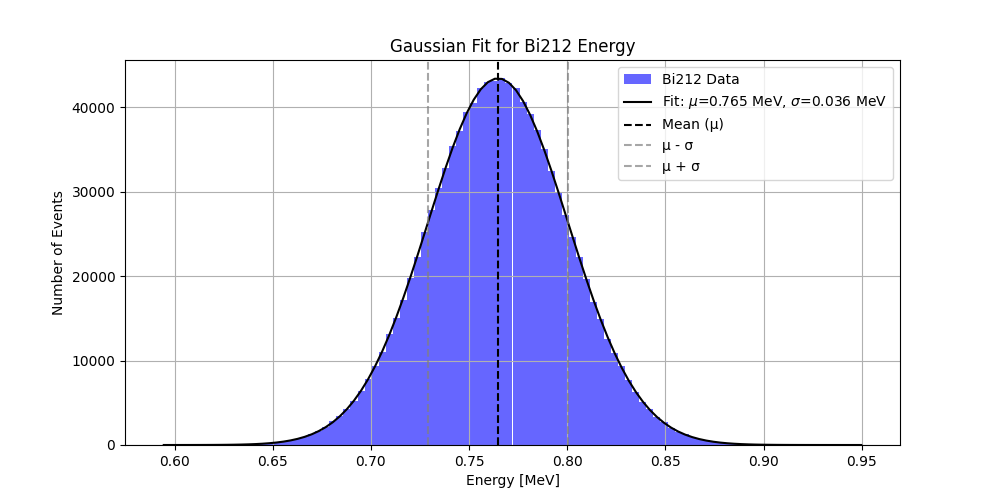
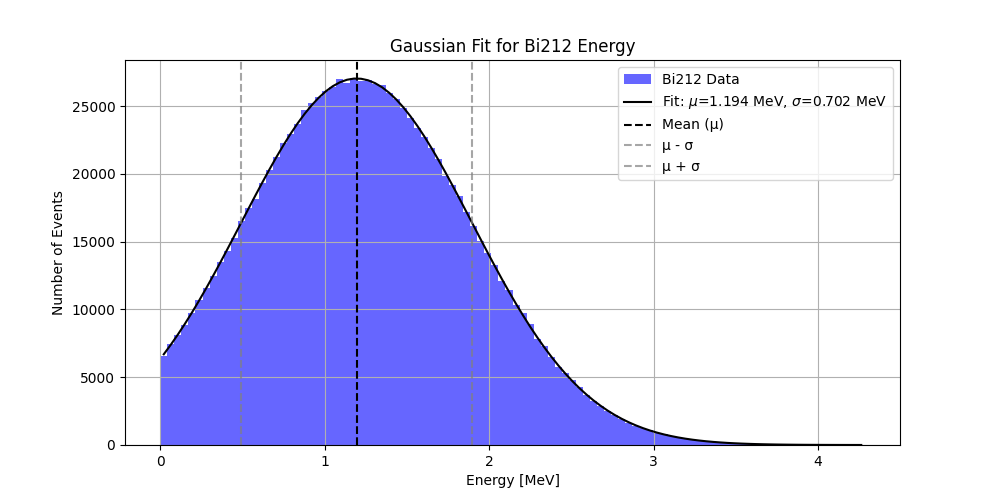
Added fits of the decay curve and energy

diff --git a/data_visualisation/data_viz.py b/data_visualisation/data_viz.py
@@ -215,7 +215,7 @@ plt.show()
 ###BiPo212###
 
 # Fit energy distributions for Bi212
-bi_energy = df_pandas[df_pandas.truth == 2].energy.values
+bi_energy = df_pandas[df_pandas.truth == 4].energy.values
 hist_bi, bin_edges_bi = np.histogram(bi_energy, bins=100)
 bin_centers_bi = (bin_edges_bi[:-1] + bin_edges_bi[1:]) / 2
 
